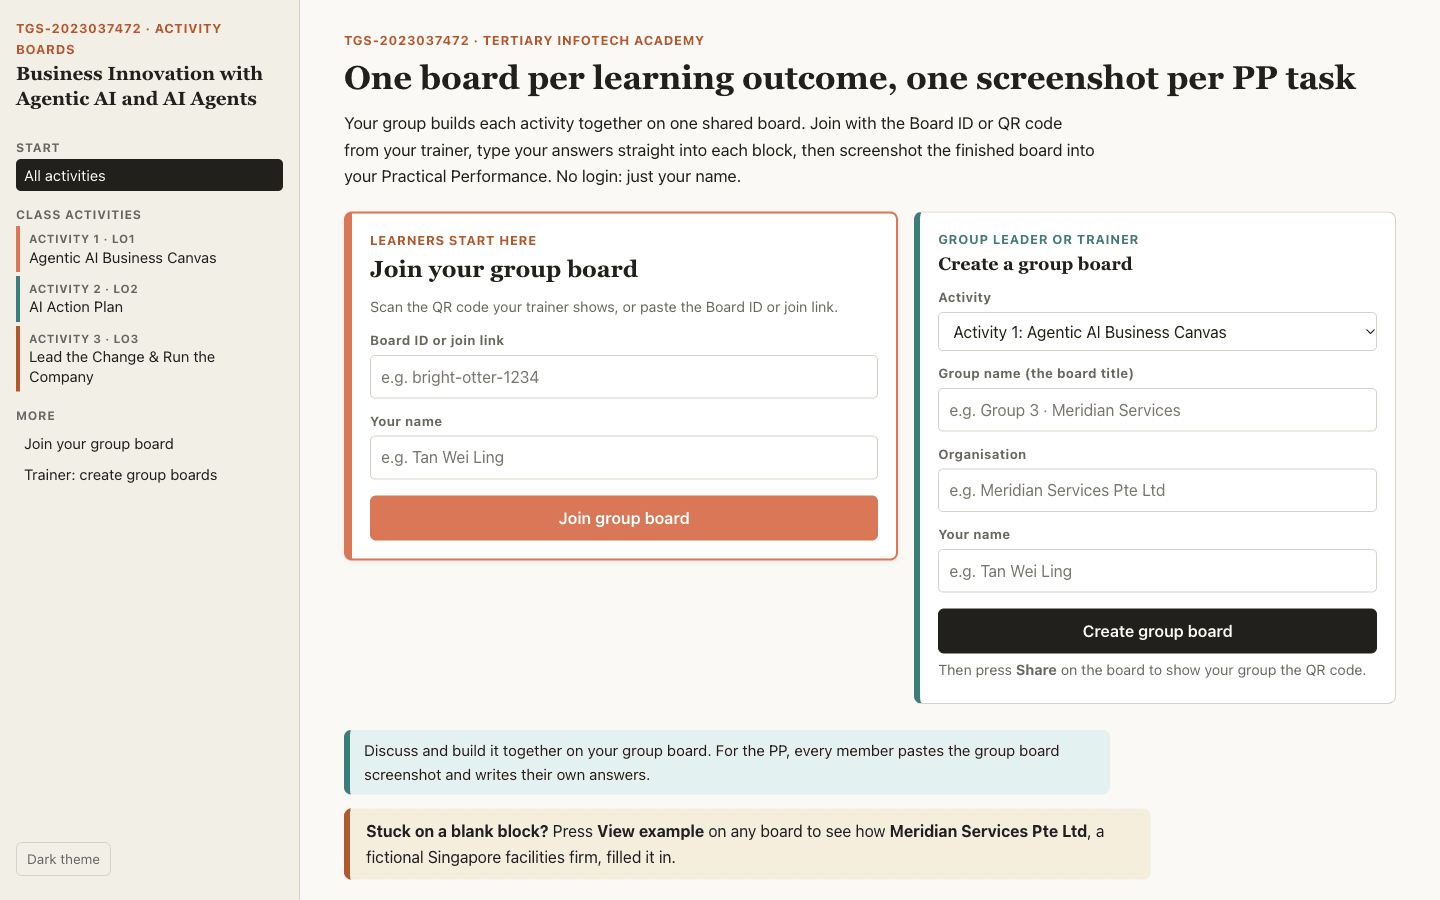
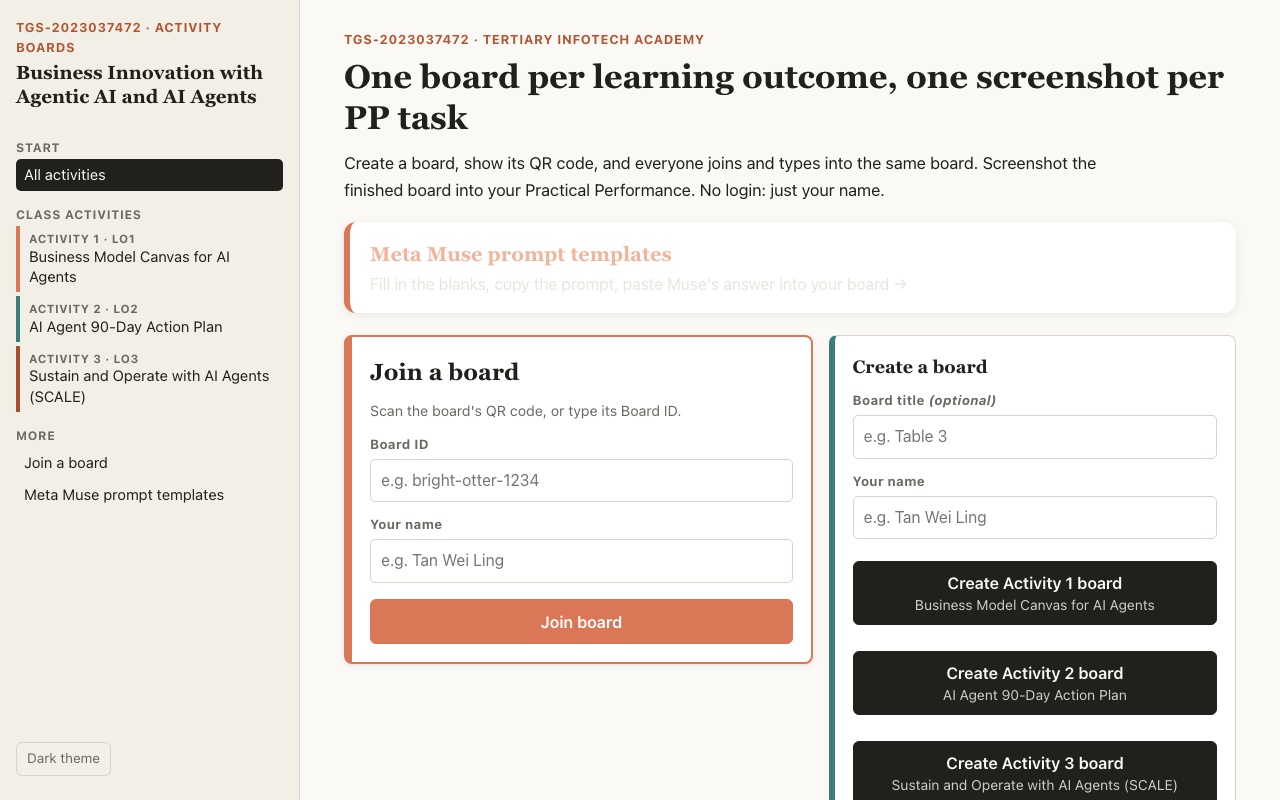
docs: README and screenshots for the one-click board flow (create, QR, everyone joins)

Changed region(s): [[0.0, 0.0, 0.9688, 1.0], [0.0, 0.9375, 0.0938, 0.9688]]

diff --git a/README.md b/README.md
@@ -8,9 +8,9 @@
 [![Firebase](https://img.shields.io/badge/Firebase-FFCA28?style=flat-square&logo=firebase&logoColor=black)](https://firebase.google.com/)
 [![License: MIT](https://img.shields.io/badge/License-MIT-blue.svg?style=flat-square)](https://opensource.org/licenses/MIT)
 
-**Build each activity with your group on one live board, screenshot it, paste it into your Practical Performance.**
+**Create a board, show its QR code, everyone joins and builds it live. Screenshot it into your Practical Performance.**
 
-[Open the boards](https://alfredang.github.io/bcm/) · [Trainer: create group boards](https://alfredang.github.io/bcm/#/trainer) · [Report a bug](https://github.com/alfredang/bcm/issues)
+[Open the boards](https://alfredang.github.io/bcm/) · [Meta Muse prompt templates](https://alfredang.github.io/bcm/prompts.html) · [Report a bug](https://github.com/alfredang/bcm/issues)
 
 </div>
 
@@ -18,38 +18,34 @@
 
 ## What this is
 
-The online activity tool for the WSQ course **Business Innovation with Agentic AI and AI Agents** (TGS-2023037472, Tertiary Infotech Academy). There is one board per learning outcome. Learners work in groups: each group shares one live board, joins it with just their names (no login), types its answers into each block as sticky notes, and screenshots the finished board.
+The online activity tool for the WSQ course **Business Innovation with Agentic AI and AI Agents** (TGS-2023037472, Tertiary Infotech Academy). There is one activity per learning outcome. Anyone can create a board in one click; it opens with its QR code and Board ID, and everyone joins with just their name (no login), types answers into each block as sticky notes, and screenshots the finished board.
 
-> **For the PP:** discuss and build it together on your group board. For the PP, every member pastes the group board screenshot and writes their own answers.
+> **For the PP:** build it together on one board. Everyone pastes the board screenshot and writes their own answers.
 
 | Activity | Board | LO · K&A | Screenshot goes into | Deep link |
 |---|---|---|---|---|
-| 1 | Agentic AI Business Canvas (the Business Model Canvas, re-read for agentic AI) | LO1 · K1, K2, A1, A2 | **PP Task 1** | <https://alfredang.github.io/bcm/?activity=opportunity> |
-| 2 | AI Action Plan | LO2 · K3, K4, A3, A4 | **PP Task 2** | <https://alfredang.github.io/bcm/?activity=actionplan> |
-| 3 | Lead the Change & Run the Company | LO3 · K5, K6, A5, A6 | **PP Task 3** | <https://alfredang.github.io/bcm/?activity=change> |
+| 1 | Business Model Canvas for AI Agents (the nine classic blocks, asked about AI agents) | LO1 · K1, K2, A1, A2 | **PP Task 1** | <https://alfredang.github.io/bcm/?activity=opportunity> |
+| 2 | AI Agent 90-Day Action Plan (1 Set the goal · 2 Mine the process · 3 Plug in the agents · 4 Name the owner · 5 Run a 90-day pilot) | LO2 · K3, K4, A3, A4 | **PP Task 2** | <https://alfredang.github.io/bcm/?activity=actionplan> |
+| 3 | Sustain and Operate with AI Agents (SCALE: Story, Commanders, Augment people, Loop information, Evaluate) | LO3 · K5, K6, A5, A6 | **PP Task 3** | <https://alfredang.github.io/bcm/?activity=change> |
 
 The activity content (block titles, prompts, guiding questions, discussion questions, the Meta Muse prompt and the worked example) comes from the course build in [`js/templates.js`](js/templates.js). That file is generated; do not edit it by hand.
 
 ## How a class uses it
 
-1. **Trainer: create the group boards.** Open [`#/trainer`](https://alfredang.github.io/bcm/#/trainer), pick the activity and the number of groups (1-10), optionally name the groups, and press *Create group boards*. You get one printable page with each group's name, Board ID, join link (`?join=<id>`) and QR code. A group leader can also create a single board from the landing page (*Create a group board*: group name, organisation, their name).
-2. **Learners: join your group board.** Scan your group's QR code, or enter the Board ID on the landing page, then type your name. Everyone on the board edits live.
+1. **Create a board.** On the landing page type your name (a board title is optional) and press *Create Activity 1 / 2 / 3 board*. The board opens straight onto its QR code, Board ID and join link (`?join=<id>`).
+2. **Everyone joins.** Scan the QR code, open the join link, or type the Board ID under *Join a board*, then enter a name. Everyone on the board edits live.
 3. **Draft with Meta Muse.** On the board, *Copy Muse prompt* copies the activity's prompt; *Open Meta Muse* opens <https://muse.ai/> in a new tab. Paste Muse's numbered reply into *Paste Muse answer*: the board matches each line to its block, shows a preview, and adds only the answers you tick (tagged `Muse`). Lines it can't match stay in the dialog for copying by hand.
 4. **Type your answers.** Every block has a *Type your answer…* box: Enter saves (Shift+Enter for a new line; the first line becomes the headline). The **+** button opens the full note editor (tag, priority, status). Notes can be voted on, edited and dragged to reorder.
 5. **Stuck?** *View example* shows how a fictional sample company filled in each block, without writing anything. *Load worked example* copies those notes onto the board, tagged `Example`.
-6. **Hand it in.** *Screenshot view* hides the editing tools and adds a header strip with the course, activity, **group name**, the learner's own name, the organisation, the date and the PP task. From there: **Download PNG**, **Download PDF** (one landscape A4 page) or **Print**.
+6. **Hand it in.** *Screenshot view* hides the editing tools and adds a header strip with the course, activity, **board title**, the learner's own name, the date and the PP task. From there: **Download PNG**, **Download PDF** (one landscape A4 page) or **Print**.
 
 ## Screenshots
 
-| Activity 1 · Agentic AI Business Canvas | Activity 2 · AI Action Plan |
+| Activity 1 · Business Model Canvas for AI Agents | Activity 2 · AI Agent 90-Day Action Plan |
 |---|---|
 | ![Activity 1](docs/screens/opportunity.png) | ![Activity 2](docs/screens/actionplan.png) |
-| **Activity 3 · Lead the Change & Run the Company** | **Screenshot view (what goes into the PP)** |
+| **Activity 3 · Sustain and Operate with AI Agents (SCALE)** | **Screenshot view (what goes into the PP)** |
 | ![Activity 3](docs/screens/change.png) | ![Screenshot view](docs/screens/screenshot-view.png) |
-
-Trainer page after creating three group boards:
-
-![Trainer page](docs/screens/trainer.png)
 
 ## Tech stack
 
@@ -66,14 +62,14 @@ Trainer page after creating three group boards:
 
 ```
 bcm/
-├── index.html            # Landing, trainer page, board page, modals
+├── index.html            # Landing (create / join), board page, modals
 ├── css/styles.css        # Design tokens (light + dark), layouts, screenshot + print styles
 ├── js/
 │   ├── templates.js      # GENERATED by the course build: activities, Muse prompts, worked example
 │   ├── boards.js         # Activity catalogue; classic BMC + retired activities for older boards
-│   ├── app.js            # Theme, routing (#/c/<id>, #/trainer, ?activity=, ?join=), toast, modals
-│   ├── landing.js        # Activity cards, join / create a group board
-│   ├── trainer.js        # Bulk-create group boards, printable QR page
+│   ├── app.js            # Theme, routing (#/c/<id>, ?activity=, ?join=), toast, modals
+│   ├── landing.js        # Activity cards, join a board, one-click create per activity
+│   ├── trainer.js        # Legacy bulk-create page (#/trainer, no longer linked)
 │   ├── canvas.js         # Board page: header, blocks, typed answers, presence
 │   ├── notes.js          # Sticky notes: live sync, editor, votes, reorder, worked example
 │   ├── muse.js           # Copy Muse prompt; parse a pasted Muse reply into notes
@@ -96,7 +92,7 @@ canvases/{boardId}/blocks/{blockId}/notes/{noteId}
 canvases/{boardId}/presence/{participantId}   name, color, lastSeen
 ```
 
-- `type` is the activity key (`opportunity`, `actionplan`, `change`). `title` is the group name.
+- `type` is the activity key (`opportunity`, `actionplan`, `change`). `title` is the board title ("Board" when left blank).
 - Older boards keep working. A board with no `type` (or `bmc`) opens with the classic nine-block Business Model Canvas; a board of the retired `companymap` activity opens with its notes and a "retired activity" note. Neither can be created any more.
 - `category` is free text; `Example` (worked example) and `Muse` (pasted from Meta Muse) are styled tags.
 
